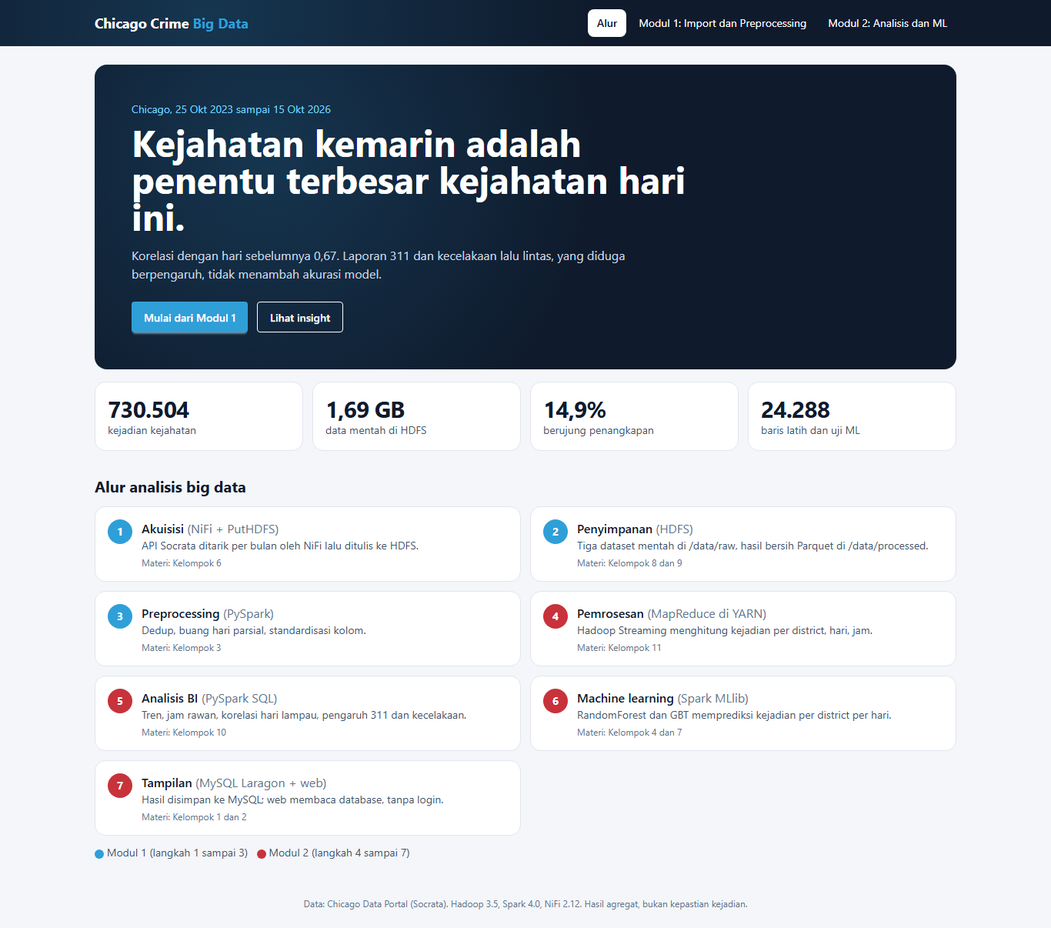
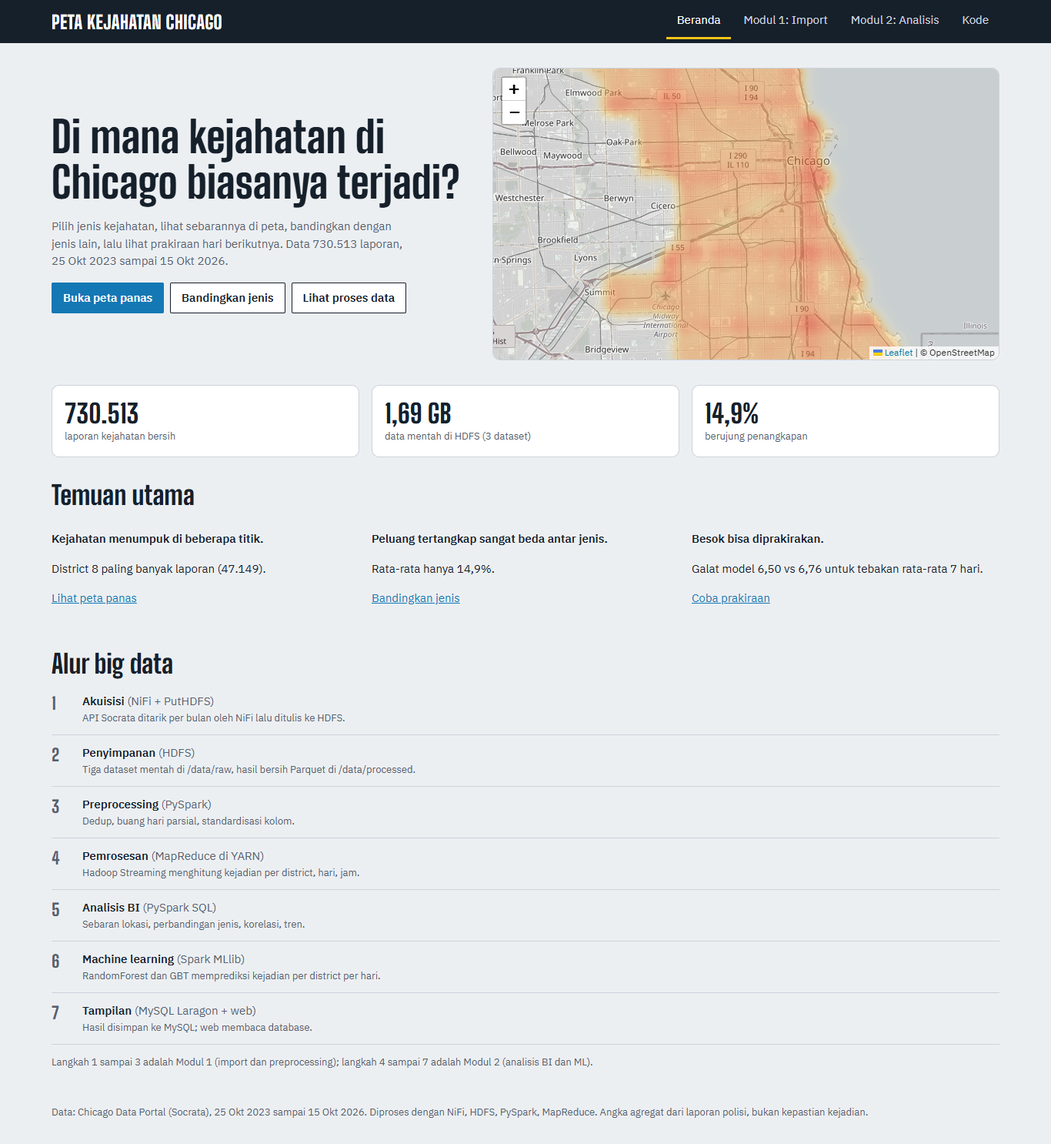
[tugas-akhir] UI v2: kesimpulan, peta panas interaktif, penjelajah ML

diff --git a/web/assets/leaflet-heat.js b/web/assets/leaflet-heat.js
@@ -1,0 +1,11 @@
+/*
+ (c) 2014, Vladimir Agafonkin
+ simpleheat, a tiny JavaScript library for drawing heatmaps with Canvas
+ https://github.com/mourner/simpleheat
+*/
+!function(){"use strict";function t(i){return this instanceof t?(this._canvas=i="string"==typeof i?document.getElementById(i):i,this._ctx=i.getContext("2d"),this._width=i.width,this._height=i.height,this._max=1,void this.clear()):new t(i)}t.prototype={defaultRadius:25,defaultGradient:{.4:"blue",.6:"cyan",.7:"lime",.8:"yellow",1:"red"},data:function(t,i){return this._data=t,this},max:function(t){return this._max=t,this},add:function(t){return this._data.push(t),this},clear:function(){return this._data=[],this},radius:function(t,i){i=i||15;var a=this._circle=document.createElement("canvas"),s=a.getContext("2d"),e=this._r=t+i;return a.width=a.height=2*e,s.shadowOffsetX=s.shadowOffsetY=200,s.shadowBlur=i,s.shadowColor="black",s.beginPath(),s.arc(e-200,e-200,t,0,2*Math.PI,!0),s.closePath(),s.fill(),this},gradient:function(t){var i=document.createElement("canvas"),a=i.getContext("2d"),s=a.createLinearGradient(0,0,0,256);i.width=1,i.height=256;for(var e in t)s.addColorStop(e,t[e]);return a.fillStyle=s,a.fillRect(0,0,1,256),this._grad=a.getImageData(0,0,1,256).data,this},draw:function(t){this._circle||this.radius(this.defaultRadius),this._grad||this.gradient(this.defaultGradient);var i=this._ctx;i.clearRect(0,0,this._width,this._height);for(var a,s=0,e=this._data.length;e>s;s++)a=this._data[s],i.globalAlpha=Math.max(a[2]/this._max,t||.05),i.drawImage(this._circle,a[0]-this._r,a[1]-this._r);var n=i.getImageData(0,0,this._width,this._height);return this._colorize(n.data,this._grad),i.putImageData(n,0,0),this},_colorize:function(t,i){for(var a,s=3,e=t.length;e>s;s+=4)a=4*t[s],a&&(t[s-3]=i[a],t[s-2]=i[a+1],t[s-1]=i[a+2])}},window.simpleheat=t}(),/*
+ (c) 2014, Vladimir Agafonkin
+ Leaflet.heat, a tiny and fast heatmap plugin for Leaflet.
+ https://github.com/Leaflet/Leaflet.heat
+*/
+L.HeatLayer=(L.Layer?L.Layer:L.Class).extend({initialize:function(t,i){this._latlngs=t,L.setOptions(this,i)},setLatLngs:function(t){return this._latlngs=t,this.redraw()},addLatLng:function(t){return this._latlngs.push(t),this.redraw()},setOptions:function(t){return L.setOptions(this,t),this._heat&&this._updateOptions(),this.redraw()},redraw:function(){return!this._heat||this._frame||this._map._animating||(this._frame=L.Util.requestAnimFrame(this._redraw,this)),this},onAdd:function(t){this._map=t,this._canvas||this._initCanvas(),t._panes.overlayPane.appendChild(this._canvas),t.on("moveend",this._reset,this),t.options.zoomAnimation&&L.Browser.any3d&&t.on("zoomanim",this._animateZoom,this),this._reset()},onRemove:function(t){t.getPanes().overlayPane.removeChild(this._canvas),t.off("moveend",this._reset,this),t.options.zoomAnimation&&t.off("zoomanim",this._animateZoom,this)},addTo:function(t){return t.addLayer(this),this},_initCanvas:function(){var t=this._canvas=L.DomUtil.create("canvas","leaflet-heatmap-layer leaflet-layer"),i=L.DomUtil.testProp(["transformOrigin","WebkitTransformOrigin","msTransformOrigin"]);t.style[i]="50% 50%";var a=this._map.getSize();t.width=a.x,t.height=a.y;var s=this._map.options.zoomAnimation&&L.Browser.any3d;L.DomUtil.addClass(t,"leaflet-zoom-"+(s?"animated":"hide")),this._heat=simpleheat(t),this._updateOptions()},_updateOptions:function(){this._heat.radius(this.options.radius||this._heat.defaultRadius,this.options.blur),this.options.gradient&&this._heat.gradient(this.options.gradient),this.options.max&&this._heat.max(this.options.max)},_reset:function(){var t=this._map.containerPointToLayerPoint([0,0]);L.DomUtil.setPosition(this._canvas,t);var i=this._map.getSize();this._heat._width!==i.x&&(this._canvas.width=this._heat._width=i.x),this._heat._height!==i.y&&(this._canvas.height=this._heat._height=i.y),this._redraw()},_redraw:function(){var t,i,a,s,e,n,h,o,r,d=[],_=this._heat._r,l=this._map.getSize(),m=new L.Bounds(L.point([-_,-_]),l.add([_,_])),c=void 0===this.options.max?1:this.options.max,u=void 0===this.options.maxZoom?this._map.getMaxZoom():this.options.maxZoom,f=1/Math.pow(2,Math.max(0,Math.min(u-this._map.getZoom(),12))),g=_/2,p=[],v=this._map._getMapPanePos(),w=v.x%g,y=v.y%g;for(t=0,i=this._latlngs.length;i>t;t++)if(a=this._map.latLngToContainerPoint(this._latlngs[t]),m.contains(a)){e=Math.floor((a.x-w)/g)+2,n=Math.floor((a.y-y)/g)+2;var x=void 0!==this._latlngs[t].alt?this._latlngs[t].alt:void 0!==this._latlngs[t][2]?+this._latlngs[t][2]:1;r=x*f,p[n]=p[n]||[],s=p[n][e],s?(s[0]=(s[0]*s[2]+a.x*r)/(s[2]+r),s[1]=(s[1]*s[2]+a.y*r)/(s[2]+r),s[2]+=r):p[n][e]=[a.x,a.y,r]}for(t=0,i=p.length;i>t;t++)if(p[t])for(h=0,o=p[t].length;o>h;h++)s=p[t][h],s&&d.push([Math.round(s[0]),Math.round(s[1]),Math.min(s[2],c)]);this._heat.data(d).draw(this.options.minOpacity),this._frame=null},_animateZoom:function(t){var i=this._map.getZoomScale(t.zoom),a=this._map._getCenterOffset(t.center)._multiplyBy(-i).subtract(this._map._getMapPanePos());L.DomUtil.setTransform?L.DomUtil.setTransform(this._canvas,a,i):this._canvas.style[L.DomUtil.TRANSFORM]=L.DomUtil.getTranslateString(a)+" scale("+i+")"}}),L.heatLayer=function(t,i){return new L.HeatLayer(t,i)};

diff --git a/web/assets/peta.js b/web/assets/peta.js
@@ -1,4 +1,4 @@
-// Peta panas sel (Leaflet). Sel digambar sendiri; ubin peta dasar opsional (hanya bila ada internet).
+// Peta Leaflet: peta dasar jalan (opsional, butuh internet), lapisan heatmap halus (leaflet.heat) atau kotak sel, layar penuh.
 const Peta = (() => {
   const CELL = 0.005, STOPS = ['#FFF3B0', '#FDBE4B', '#F26B38', '#C4262E', '#6E0F1A'];
   const hex = c => [1, 3, 5].map(i => parseInt(c.slice(i, i + 2), 16));
@@ -6,20 +6,36 @@ const Peta = (() => {
   const panas = t => { t = Math.max(0, Math.min(1, t)) * 4; const i = Math.min(3, Math.floor(t)); return 'rgb(' + mix(hex(STOPS[i]), hex(STOPS[i + 1]), t - i) + ')'; };
   // selisih: biru (B lebih padat) - abu - merah (A lebih padat)
   const selisih = d => { const A = [196, 38, 46], B = [20, 120, 181], N = [236, 239, 242], t = Math.min(1, Math.abs(d)); return 'rgb(' + mix(N, d >= 0 ? A : B, t) + ')'; };
-  function buat(el) {
-    const m = L.map(el, { zoomControl: true, preferCanvas: true, attributionControl: true }).setView([41.84, -87.68], 11);
-    m.layerSel = L.layerGroup().addTo(m);
+  function buat(el, opt = {}) {
+    const m = L.map(el, { zoomControl: true, preferCanvas: true, scrollWheelZoom: !opt.statis, minZoom: 9, maxZoom: 18, zoomSnap: .5 }).setView([41.84, -87.68], 11);
+    L.tileLayer('https://tile.openstreetmap.org/{z}/{x}/{y}.png', { attribution: '&copy; OpenStreetMap', maxZoom: 19, className: 'dasar' }).addTo(m);
+    m.layerSel = L.layerGroup().addTo(m); m.heat = null;
+    if (opt.fs) {
+      const C = L.Control.extend({ options: { position: 'topleft' }, onAdd() {
+        const b = L.DomUtil.create('a', 'leaflet-bar peta-fs'); b.href = '#'; b.title = 'Layar penuh'; b.setAttribute('role', 'button'); b.setAttribute('aria-label', 'Layar penuh'); b.textContent = '⛶';
+        const toggle = on => { m.getContainer().classList.toggle('fs', on); document.body.classList.toggle('fs-lock', on); setTimeout(() => m.invalidateSize(), 50); };
+        L.DomEvent.on(b, 'click', e => { L.DomEvent.preventDefault(e); toggle(!m.getContainer().classList.contains('fs')); });
+        document.addEventListener('keydown', e => { if (e.key === 'Escape') toggle(false); });
+        return b; } });
+      new C().addTo(m);
+    }
     return m;
   }
-  // cells: [{la,lo,n}], warna: fungsi(n)->css, tip: fungsi(sel)->teks
+  function bersih(m) { m.layerSel.clearLayers(); if (m.heat) { m.removeLayer(m.heat); m.heat = null; } }
+  // cells: [{la,lo,n}], warna: fungsi(sel)->css, tip: fungsi(sel)->teks
   function gambar(m, cells, warna, tip) {
-    m.layerSel.clearLayers();
+    bersih(m);
     for (const c of cells) {
       const r = L.rectangle([[c.la - CELL / 2, c.lo - CELL / 2], [c.la + CELL / 2, c.lo + CELL / 2]],
-        { stroke: false, fillColor: warna(c), fillOpacity: .78, interactive: !!tip });
+        { stroke: false, fillColor: warna(c), fillOpacity: .72, interactive: !!tip });
       if (tip) r.bindTooltip(tip(c), { sticky: true });
       r.addTo(m.layerSel);
     }
   }
-  return { CELL, panas, selisih, buat, gambar, STOPS };
+  // heatmap halus: pts [[la,lo,0..1]]
+  function halus(m, pts, radius = 16, blur = 20) {
+    bersih(m);
+    m.heat = L.heatLayer(pts, { radius, blur, max: .55, minOpacity: .3, gradient: { .15: STOPS[0], .4: STOPS[1], .6: STOPS[2], .8: STOPS[3], 1: STOPS[4] } }).addTo(m);
+  }
+  return { CELL, panas, selisih, buat, gambar, halus, STOPS };
 })();

diff --git a/web/assets/app.css b/web/assets/app.css
@@ -76,3 +76,32 @@ footer{padding:32px 0;color:var(--redam);font-size:13px}
 .alur li.ok{border-color:#2e7d46;background:#e7f3ea;color:var(--aspal)}
 .alur li.jalan{border-color:var(--danau);background:#e5f1fa;color:var(--aspal)}
 input[type=url],input[type=date]{border-radius:2px}
+/* ---- UI v2: kesimpulan, kontrol peta, penjelajah ML ---- */
+.kes{background:#fff;border:1px solid var(--garis);border-left:8px solid var(--peron);border-radius:10px;padding:14px 18px;margin:16px 0}
+.kes h2{font-size:22px;margin-bottom:6px}.kes ul{margin:6px 0 0;padding-left:20px}.kes li{margin:4px 0;max-width:80ch}
+.cara{margin:12px 0;border:1px solid var(--garis);border-radius:10px;background:#fff;padding:0 16px}
+.cara summary{cursor:pointer;font-weight:600;padding:10px 0}.cara p{margin:0 0 12px;max-width:75ch}
+.seg{display:inline-flex}.seg .btn{border-radius:0;margin-left:-1px}.seg .btn:first-child{border-radius:2px 0 0 2px;margin-left:0}.seg .btn:last-child{border-radius:0 2px 2px 0}
+.rng{display:flex;flex-direction:column;gap:2px;font-size:13px;color:var(--redam);min-width:130px}.rng input{width:100%;accent-color:var(--danau)}
+.hot{list-style:none;margin:0;padding:0}.hot li{border-bottom:1px solid var(--garis)}
+.hot button{all:unset;box-sizing:border-box;display:flex;gap:10px;align-items:center;width:100%;padding:8px 4px;cursor:pointer}
+.hot button:hover,.hot button:focus-visible{background:var(--kabut)}
+.hot b.n{font:800 20px var(--judul);width:22px;color:var(--bendera)}.hot .w{flex:1}.hot small{display:block;color:var(--redam)}
+#peta.fs,#mini.fs{position:fixed!important;inset:0;height:100vh!important;width:100vw!important;z-index:2000;border-radius:0}
+body.fs-lock{overflow:hidden}
+.peta-fs{width:30px;height:30px;line-height:30px;text-align:center;background:#fff;color:#16202B!important;font-size:18px;text-decoration:none;cursor:pointer}
+.leaflet-container{touch-action:none}
+.temuan{display:grid;gap:16px;grid-template-columns:repeat(auto-fit,minmax(230px,1fr));margin:16px 0}
+.temuan .panel{border-top:6px solid var(--bendera)}.temuan .panel:nth-child(2){border-color:var(--danau)}.temuan .panel:nth-child(3){border-color:var(--peron)}.temuan .panel:nth-child(4){border-color:#2e7d46}
+.temuan p{margin:6px 0 0}
+.meter{position:relative;height:34px;border-radius:2px;overflow:hidden;display:flex;margin:14px 0 4px}
+.meter i{display:block;height:100%}.meter .m1{background:#cfe8d6}.meter .m2{background:#ffe9a8}.meter .m3{background:#f6c0c3}
+.meter u{position:absolute;top:0;bottom:0;width:4px;background:var(--aspal);text-decoration:none}
+.mlab{display:flex;justify-content:space-between;font-size:12px;color:var(--redam)}
+.rk{cursor:pointer;text-align:left;font:inherit;border:0;border-left:6px solid}
+.rk:hover{filter:brightness(.97)}.rk:focus-visible{outline:2px solid var(--danau)}
+.tebak{display:grid;gap:12px}.tebak .hist{display:flex;gap:6px;flex-wrap:wrap}.tebak .hist span{border:1px solid var(--garis);border-radius:2px;padding:4px 8px;background:var(--kabut);font-size:13px}
+.win{color:#2e7d46;font-weight:600}.lose{color:var(--bendera);font-weight:600}
+tr.klik{cursor:pointer}tr.klik:hover{background:var(--kabut)}tr.sel{background:#fff4d6}
+
+.dasar{filter:grayscale(.85) contrast(.9) brightness(1.05)}

diff --git a/web/modul2.php b/web/modul2.php
@@ -19,23 +19,28 @@ const HARI=['Min','Sen','Sel','Rab','Kam','Jum','Sab'];</script>
 
 <?php if ($s === 1): $A = $_GET['jenis'] ?? 'SEMUA'; $A = $A === 'SEMUA' ? 'SEMUA' : $pilih($A, 'THEFT'); $B = $pilih($_GET['banding'] ?? '', ''); $mode = ($_GET['mode'] ?? '') === 'selisih' && $B ? 'selisih' : 'padat'; ?>
 <h1>Di mana kejahatan terjadi</h1>
-<p class="muted" style="max-width:70ch">Peta dibagi sel ±0,5 km. Warna sel menunjukkan jumlah laporan. Pilih satu jenis, lalu pilih jenis kedua untuk melihat di mana keduanya berbeda. <?= nf($meta['rows_mapped']) ?> dari <?= nf($meta['rows']) ?> kejadian punya koordinat; <?= nf($meta['rows_no_coord']) ?> tanpa koordinat tidak dipetakan.</p>
+<div class="kes" id="kes" aria-live="polite"><h2>Kesimpulan</h2><ul id="kesl"><li>Memuat...</li></ul></div>
+<details class="cara"><summary>Cara membaca peta ini</summary><p>Chicago dibagi menjadi sel sekitar 0,5 km. Makin merah dan gelap, makin banyak laporan di sel itu. Geser dan zoom dengan mouse atau jari, klik tombol layar penuh untuk memperbesar. <b>Halus</b> menggabungkan sel menjadi gradasi yang mulus, <b>Kotak</b> menampilkan tiap sel apa adanya (arahkan kursor untuk angkanya). Pilih jenis kedua lalu <b>Selisih</b> untuk melihat di mana dua jenis kejahatan berbeda pola. <?= nf($meta['rows_mapped']) ?> dari <?= nf($meta['rows']) ?> kejadian punya koordinat; <?= nf($meta['rows_no_coord']) ?> tanpa koordinat tidak dipetakan.</p></details>
 <div class="ctl">
  <label class="f">Jenis kejahatan<select id="A"><option value="SEMUA">Semua jenis</option><?php foreach ($J as $j): ?><option value="<?= h($j) ?>" <?= $j === $A ? 'selected' : '' ?>><?= nama($j) ?></option><?php endforeach ?></select></label>
  <label class="f">Bandingkan dengan<select id="B"><option value="">(tidak ada)</option><?php foreach ($J as $j): ?><option value="<?= h($j) ?>" <?= $j === $B ? 'selected' : '' ?>><?= nama($j) ?></option><?php endforeach ?></select></label>
  <div role="group" aria-label="Mode peta" style="display:flex"><button class="btn" id="mP" aria-pressed="<?= $mode === 'padat' ? 'true' : 'false' ?>">Kepadatan</button><button class="btn" id="mS" aria-pressed="<?= $mode === 'selisih' ? 'true' : 'false' ?>" <?= $B ? '' : 'disabled' ?>>Selisih A lawan B</button></div>
+ <div class="seg" role="group" aria-label="Gaya peta"><button class="btn" id="gH" aria-pressed="true">Halus</button><button class="btn" id="gK" aria-pressed="false">Kotak</button></div>
+ <label class="rng">Jari-jari sebaran<input type="range" id="rad" min="8" max="40" value="18"></label>
+ <label class="rng">Ambang tampil<input type="range" id="amb" min="0" max="60" value="0"></label>
  <button class="btn" id="reset">Reset</button>
 </div>
 <div class="grid side" style="margin-top:0">
  <div><div id="peta" role="img" aria-label="Peta panas kejadian kejahatan Chicago"></div><div class="legend" id="leg"></div></div>
  <div class="grid" style="margin-top:0;align-content:start">
   <section class="panel"><h3 id="jd">Ringkasan</h3><div class="kv" id="kv"></div><div id="ins"></div></section>
+  <section class="panel"><h3>Titik terpanas</h3><p class="small muted" style="margin:0 0 4px">Klik untuk terbang ke lokasinya.</p><ol class="hot" id="hot"></ol></section>
   <section class="panel"><h3>District teratas</h3><div class="scroll"><table class="t" id="td"></table></div></section>
  </div>
 </div>
 <script>
-const st={A:'<?= h($A) ?>',B:'<?= h($B) ?>',mode:'<?= $mode ?>'};
-const map=Peta.buat('peta');
+const st={A:'<?= h($A) ?>',B:'<?= h($B) ?>',mode:'<?= $mode ?>',gaya:'halus'};
+const map=Peta.buat('peta',{fs:true});
 const cache={};
 const ambil=async j=>cache[j]||(cache[j]=await (await fetch('api.php?a=grid&j='+encodeURIComponent(j))).json());
 async function ringkas(){
@@ -67,13 +72,36 @@ async function gambar(){
     b.forEach(c=>{const k=c.la+'|'+c.lo;const m=M[k]=M[k]||{la:c.la,lo:c.lo,a:0,b:0,na:0,nb:0};m.b=c.n/sb;m.nb=c.n});
     const L=Object.values(M),mx=L.reduce((x,c)=>Math.max(x,Math.abs(c.a-c.b)),0)||1;
     Peta.gambar(map,L,c=>Peta.selisih(Math.sign(c.a-c.b)*Math.sqrt(Math.abs(c.a-c.b)/mx)),c=>`${nm(st.A)}: ${nf(c.na)}<br>${nm(st.B)}: ${nf(c.nb)}`);
+    kes(a,b,sa,sb,L);
     leg.innerHTML=`<span>${nm(st.B)} lebih padat</span><i style="background:linear-gradient(90deg,#1478B5,#ECEFF2,#C4262E)"></i><span>${nm(st.A)} lebih padat</span>`;
   }else{
-    const v=a.map(c=>c.n).sort((x,y)=>x-y),p=v[Math.floor(v.length*.98)]||1;
-    Peta.gambar(map,a,c=>Peta.panas(Math.sqrt(c.n/p)),c=>`${nf(c.n)} laporan`);
+    const v=a.map(c=>c.n).sort((x,y)=>x-y),p=v[Math.floor(v.length*.98)]||1,amb=+document.getElementById('amb').value/100*p,aa=a.filter(c=>c.n>=amb);
+    if(st.gaya==='halus')Peta.halus(map,aa.map(c=>[c.la,c.lo,Math.min(1,Math.sqrt(c.n/p))]),+document.getElementById('rad').value,Math.round(+document.getElementById('rad').value*1.1));
+    else Peta.gambar(map,aa,c=>Peta.panas(Math.sqrt(c.n/p)),c=>`${nf(c.n)} laporan`);
     leg.innerHTML=`<span>sedikit</span><i style="background:linear-gradient(90deg,${Peta.STOPS.join(',')})"></i><span>${nf(p)}+ per sel</span>`;
+    kes(a,null,0,0,null);hotspot(a);
   }
   ringkas();
+}
+function hotspot(a){
+  const t=[...a].sort((x,y)=>y.n-x.n),tot=a.reduce((s,c)=>s+c.n,0),pk=[];
+  for(const c of t){if(pk.every(q=>Math.hypot(q.la-c.la,(q.lo-c.lo)*.75)>.02))pk.push(c);if(pk.length>=5)break}
+  document.getElementById('hot').innerHTML=pk.map((c,i)=>`<li><button data-la="${c.la}" data-lo="${c.lo}"><b class="n">${i+1}</b><span class="w">${nf(c.n)} laporan<small>${nf(c.n/tot*100,1)}% dari semua sel &middot; ${c.la.toFixed(3)}, ${c.lo.toFixed(3)}</small></span></button></li>`).join('');
+  document.querySelectorAll('#hot button').forEach(b=>b.onclick=()=>map.flyTo([+b.dataset.la,+b.dataset.lo],15,{duration:.8}));
+}
+function kes(a,b,sa,sb,L){
+  const el=document.getElementById('kesl'),tot=a.reduce((s,c)=>s+c.n,0),t=[...a].sort((x,y)=>y.n-x.n);
+  let k=[];
+  if(b){const dl=L.map(c=>[c,c.a-c.b]),ta=dl.sort((x,y)=>y[1]-x[1])[0],tb=dl[dl.length-1];
+    k.push(`<b>${nm(st.A)}</b> dan <b>${nm(st.B)}</b> tidak menumpuk di tempat yang sama. Merah = ${nm(st.A)} lebih dominan, biru = ${nm(st.B)} lebih dominan.`);
+    k.push(`Selisih terbesar: ${nm(st.A)} unggul di sekitar ${ta[0].la.toFixed(3)}, ${ta[0].lo.toFixed(3)}; ${nm(st.B)} unggul di sekitar ${tb[0].la.toFixed(3)}, ${tb[0].lo.toFixed(3)}.`);
+  }else{
+    const n10=Math.max(1,Math.ceil(a.length*.1)),s10=t.slice(0,n10).reduce((s,c)=>s+c.n,0);
+    k.push(`<b>${nm(st.A)}</b>: ${nf(tot)} laporan di ${nf(a.length)} sel peta.`);
+    k.push(`Terkonsentrasi: <b>10% sel teratas menampung ${nf(s10/tot*100,0)}%</b> dari seluruh laporan. Sisanya tersebar tipis.`);
+    k.push(`Titik terpanas ada di sekitar ${t[0].la.toFixed(3)}, ${t[0].lo.toFixed(3)} (${nf(t[0].n)} laporan dalam satu sel). Klik daftar "Titik terpanas" di kanan untuk melihatnya.`);
+  }
+  el.innerHTML=k.map(x=>`<li>${x}</li>`).join('');
 }
 const sync=()=>{document.getElementById('mP').setAttribute('aria-pressed',st.mode!=='selisih');document.getElementById('mS').setAttribute('aria-pressed',st.mode==='selisih');document.getElementById('mS').disabled=!st.B};
 document.getElementById('A').onchange=e=>{st.A=e.target.value;gambar()};
@@ -81,12 +109,21 @@ document.getElementById('B').onchange=e=>{st.B=e.target.value;if(!st.B)st.mode='
 document.getElementById('mP').onclick=()=>{st.mode='padat';sync();gambar()};
 document.getElementById('mS').onclick=()=>{st.mode='selisih';sync();gambar()};
 document.getElementById('reset').onclick=()=>{location.href='?s=1'};
+const gs=()=>{document.getElementById('gH').setAttribute('aria-pressed',st.gaya==='halus');document.getElementById('gK').setAttribute('aria-pressed',st.gaya==='kotak');document.getElementById('rad').disabled=st.gaya!=='halus'};
+document.getElementById('gH').onclick=()=>{st.gaya='halus';gs();gambar()};
+document.getElementById('gK').onclick=()=>{st.gaya='kotak';gs();gambar()};
+let tr;['rad','amb'].forEach(i=>document.getElementById(i).oninput=()=>{clearTimeout(tr);tr=setTimeout(gambar,120)});
 gambar();
 </script>
 
 <?php elseif ($s === 2): $sel = array_values(array_filter(array_map(fn($x) => in_array($x, $J, true) ? $x : null, explode(',', $_GET['j'] ?? 'THEFT,BATTERY,ROBBERY')))); $sel = array_slice(array_unique($sel), 0, 4) ?: ['THEFT']; ?>
 <h1>Apa dan kapan: bandingkan jenis</h1>
-<p class="muted" style="max-width:70ch">Pilih 1 sampai 4 jenis. Tren diindeks 100 pada bulan penuh pertama supaya jenis besar dan kecil bisa dibandingkan. Korelasi bukan sebab-akibat.</p>
+<div class="kes" aria-live="polite"><h2>Kesimpulan</h2><ul id="kesl"><li>Memuat...</li></ul></div>
+<details class="cara"><summary>Cara membaca halaman ini</summary><p>Pilih 1 sampai 4 jenis kejahatan, atau pakai pilihan cepat. <b>Tren</b> diindeks 100 pada bulan penuh pertama supaya jenis besar dan kecil bisa dibandingkan: garis di atas 100 berarti lebih banyak dari awal. <b>Peta jam</b> menunjukkan kapan jenis itu paling sering dilaporkan (baris = hari, kolom = jam; arahkan kursor untuk angkanya). <b>Korelasi</b> mengukur apakah dua jenis naik turun bersamaan di hari yang sama (1 = selalu bersamaan); korelasi bukan sebab-akibat.</p></details>
+<div class="ctl" style="margin-bottom:0"><span class="small muted">Pilihan cepat:</span>
+ <button class="btn" data-pre="THEFT,BATTERY,ROBBERY">Pencurian dan kekerasan</button>
+ <button class="btn" data-pre="NARCOTICS,CRIMINAL DAMAGE,DECEPTIVE PRACTICE">Narkotika, perusakan, penipuan</button>
+ <button class="btn" data-pre="BURGLARY,MOTOR VEHICLE THEFT,THEFT">Properti dan kendaraan</button></div>
 <fieldset class="ctl" style="border:0;padding:0" id="pil"><legend class="small muted">Jenis (maks. 4)</legend>
 <?php foreach ($J as $j): ?><label class="chip" style="--c:<?= $cor[$j] ?>"><input type="checkbox" value="<?= h($j) ?>" <?= in_array($j, $sel, true) ? 'checked' : '' ?>><span class="dot"></span><?= nama($j) ?></label><?php endforeach ?></fieldset>
 <div class="grid g2" style="margin-top:0">
@@ -99,6 +136,7 @@ gambar();
 let ch;
 const pilih=()=>[...document.querySelectorAll('#pil input:checked')].map(i=>i.value);
 const boxes=[...document.querySelectorAll('#pil input')];
+document.querySelectorAll('[data-pre]').forEach(x=>x.onclick=()=>{const w=x.dataset.pre.split(',');boxes.forEach(b=>b.checked=w.includes(b.value));muat()});
 boxes.forEach(b=>b.onchange=()=>{if(pilih().length>4)b.checked=false;if(!pilih().length)b.checked=true;muat()});
 async function muat(){
   const js=pilih();qs({j:js.join(',')});
@@ -113,15 +151,24 @@ async function muat(){
   document.getElementById('tp').innerHTML='<thead><tr><th>Jenis</th><th class="r">Laporan</th><th class="r">Penangkapan</th><th class="r">Domestik</th><th class="r">District teratas</th></tr></thead><tbody>'+P.map(p=>`<tr><td><span class="dot" style="--c:${WARNA[p.jenis]}"></span> ${nm(p.jenis)}</td><td class="r">${nf(p.n)}</td><td class="r">${nf(p.arrest_rate*100,1)}%</td><td class="r">${nf(p.domestic_pct*100,1)}%</td><td class="r">${p.top_district} (${nf(p.top_share*100,1)}%)</td></tr>`).join('')+'</tbody>';
   // heatmap jam x hari per jenis
   document.getElementById('hms').innerHTML=js.map(j=>`<section class="panel"><h3 style="color:${WARNA[j]}">${nm(j)}: jam dan hari</h3><div class="hm" id="h_${js.indexOf(j)}"></div></section>`).join('');
-  const puncak=[];
+  const puncak=[],kesA=[];
   js.forEach((j,i)=>{const g=Array.from({length:8},()=>Array(24).fill(0));d.jam.filter(r=>r.jenis===j).forEach(r=>g[r.dow][r.hr]=r.n);
     const tot=g.flat().reduce((a,b)=>a+b,0);let mx=0,pd=1,ph=0;for(let a=1;a<=7;a++)for(let b=0;b<24;b++)if(b!==0&&g[a][b]>mx){mx=g[a][b];pd=a;ph=b}
     const mj=Math.max(...g.flat().filter((_,k)=>k%24!==0));
     let h='<div></div>'+Array.from({length:24},(_,k)=>`<div style="text-align:center">${k%3?'':k}</div>`).join('');
     for(let a=1;a<=7;a++){h+=`<div>${HARI[a-1]}</div>`;for(let b=0;b<24;b++){const v=g[a][b];h+=`<div class="c" title="${HARI[a-1]} ${b}.00: ${nf(v)}" style="background:${Peta.panas(Math.sqrt(v/mj))}"></div>`}}
     document.getElementById('h_'+i).innerHTML=h;
+    const jm=Array(24).fill(0);for(let a=1;a<=7;a++)for(let b=1;b<24;b++)jm[b]+=g[a][b];const sore=[16,17,18,19,20,21].reduce((s,b)=>s+jm[b],0),all=jm.reduce((a,b)=>a+b,0)||1;
+    kesA.push({j,pd,ph,sore:sore/all});
     puncak.push(`<b>${nm(j)}</b> paling sering ${['','Minggu','Senin','Selasa','Rabu','Kamis','Jumat','Sabtu'][pd]} pukul ${ph}.00 (lonjakan 00.00 diabaikan: itu waktu bawaan data).`)});
   document.getElementById('ins').innerHTML=puncak.map(x=>`<p class="ins">${x}</p>`).join('');
+  // kesimpulan
+  const HR=['','Minggu','Senin','Selasa','Rabu','Kamis','Jumat','Sabtu'],kl=[];
+  const tr=js.map(j=>{const m={};d.bulan.filter(r=>r.jenis===j).forEach(r=>m[r.bulan]=r.n);return {j,v:(m[bl[bl.length-1]]||0)/(m[bl[0]]||1)*100}});
+  kesA.forEach(k=>{const p=P.find(x=>x.jenis===k.j),t=tr.find(x=>x.j===k.j).v;
+    kl.push(`<b>${nm(k.j)}</b>: puncak ${HR[k.pd]} pukul ${k.ph}.00; ${nf(k.sore*100,0)}% laporan terjadi jam 16-21; penangkapan ${nf(p.arrest_rate*100,1)}%; tren ${t>=105?'naik':t<=95?'turun':'datar'} (indeks ${nf(t,0)} dibanding awal).`)});
+  if(js.length>1){const ar=[...P].sort((a,b)=>b.arrest_rate-a.arrest_rate);kl.push(`Penangkapan tertinggi: <b>${nm(ar[0].jenis)}</b> (${nf(ar[0].arrest_rate*100,1)}%), terendah <b>${nm(ar[ar.length-1].jenis)}</b> (${nf(ar[ar.length-1].arrest_rate*100,1)}%).`)}
+  document.getElementById('kesl').innerHTML=kl.map(x=>`<li>${x}</li>`).join('');
   // korelasi
   const C=(a,b)=>(d.korelasi.find(r=>r.a===a&&r.b===b)||{}).corr;
   document.getElementById('tc').innerHTML='<thead><tr><th></th>'+js.map(j=>`<th class="r">${nm(j)}</th>`).join('')+'</tr></thead><tbody>'+js.map(a=>`<tr><td>${nm(a)}</td>`+js.map(b=>{const c=C(a,b);return `<td class="r" style="background:${Peta.panas(Math.max(0,c))};color:${c>.6?'#fff':'inherit'}">${nf(c,2)}</td>`}).join('')+'</tr>').join('')+'</tbody>';
@@ -143,16 +190,34 @@ $gain = ($base['rmse'] - $best['rmse']) / $base['rmse'] * 100;
 $lab = ['baseline_mean7' => 'Rata-rata 7 hari (pembanding)', 'rf_base' => 'RandomForest, kejahatan saja', 'rf_full' => 'RandomForest + 311 + kecelakaan', 'gbt_base' => 'GBT, kejahatan saja', 'gbt_full' => 'GBT + 311 + kecelakaan'];
 $tinggi = count(array_filter($risk, fn($r) => $r['risk'] === 'Tinggi')); ?>
 <h1>Besok: prakiraan per district</h1>
-<p class="muted" style="max-width:70ch">Model Spark MLlib memprediksi jumlah kejadian per district per hari. Latih <?= nf($kpi['train_rows']) ?> baris, uji <?= nf($kpi['test_rows']) ?> baris (12 bulan terakhir, dipisah menurut waktu).</p>
+<div class="kes"><h2>Kesimpulan</h2><ul>
+ <li>Model <b>RandomForest</b> memprakirakan jumlah kejadian per district per hari dengan kesalahan rata-rata sekitar <b><?= nf($best['mae'] ?? 0, 1) ?> kejadian</b>, lebih baik <b><?= nf($gain ?? 0, 1) ?>%</b> dari tebakan "sama dengan rata-rata 7 hari".</li>
+ <li>Yang paling menentukan adalah <b>kebiasaan district itu sendiri</b>: rata-rata 30 hari terakhir. Data 311 dan kecelakaan <b>tidak</b> membantu, jadi model sederhana justru terbaik.</li>
+ <li>Prakiraan besok dikelompokkan Rendah, Sedang, Tinggi dengan membandingkannya ke sejarah district itu sendiri, bukan ke district lain.</li></ul></div>
+<details class="cara"><summary>Cara membaca halaman ini</summary><p>Model dilatih dengan <?= nf($kpi['train_rows']) ?> baris dan diuji pada <?= nf($kpi['test_rows']) ?> baris (12 bulan terakhir, dipisah menurut waktu supaya tidak "mengintip" masa depan). <b>Klik kartu district</b> untuk detailnya: posisi prakiraan terhadap kisaran normal, riwayat prakiraan lawan kenyataan, dan jam rawan. <b>Tebak dulu</b> mengajak Anda menebak lalu membandingkan dengan model. Prakiraan bukan kepastian.</p></details>
 <div class="grid g3">
  <section class="panel"><div class="big" style="color:var(--bendera)"><?= nf($lag[0]['corr'], 2) ?></div><b>Kemarin menentukan hari ini</b><p class="small muted">Korelasi dengan 1 hari sebelumnya; 7 hari <?= nf($lag[6]['corr'], 2) ?>. Rata-rata 30 hari terakhir adalah fitur terpenting.</p></section>
  <section class="panel"><div class="big"><?= nf($gain, 1) ?>%</div><b>Lebih akurat dari tebakan rata-rata</b><p class="small muted">RMSE <?= nf($best['rmse'], 2) ?> lawan <?= nf($base['rmse'], 2) ?>. Menambah data 311 dan kecelakaan tidak membantu.</p></section>
  <section class="panel"><div class="big">District <?= $risk[0]['district'] ?></div><b>Prakiraan tertinggi pada <?= h($risk[0]['day']) ?></b><p class="small muted"><?= nf($risk[0]['pred'], 1) ?> kejadian, kategori <?= h($risk[0]['risk']) ?> (<?= $tinggi ?> district Tinggi). Kategori dibandingkan persentil 33 dan 66 sejarah district itu sendiri.</p></section>
 </div>
-<h2 style="margin-top:32px">Kartu risiko</h2>
-<div class="grid" style="grid-template-columns:repeat(auto-fill,minmax(130px,1fr));margin-top:12px"><?php foreach ($risk as $r): ?>
-<div class="rk rk-<?= h($r['risk']) ?>"><div class="small">District <?= $r['district'] ?></div><div class="big"><?= nf($r['pred'], 1) ?></div><div class="small"><b><?= h($r['risk']) ?></b></div></div><?php endforeach ?></div>
+<h2 style="margin-top:32px">Kartu risiko <span class="small muted">(klik untuk detail)</span></h2>
+<div class="ctl" style="margin:12px 0 0"><div class="seg" role="group" aria-label="Saring risiko"><button class="btn" data-f="" aria-pressed="true">Semua</button><button class="btn" data-f="Tinggi" aria-pressed="false">Tinggi</button><button class="btn" data-f="Sedang" aria-pressed="false">Sedang</button><button class="btn" data-f="Rendah" aria-pressed="false">Rendah</button></div>
+<label class="f">Urutkan<select id="urut"><option value="pred">Prakiraan tertinggi</option><option value="d">Nomor district</option></select></label></div>
+<div class="grid" id="kartu" style="grid-template-columns:repeat(auto-fill,minmax(130px,1fr));margin-top:12px"><?php foreach ($risk as $r): ?>
+<button class="rk rk-<?= h($r['risk']) ?>" data-d="<?= $r['district'] ?>" data-r="<?= h($r['risk']) ?>" data-p="<?= $r['pred'] ?>"><div class="small">District <?= $r['district'] ?></div><div class="big"><?= nf($r['pred'], 1) ?></div><div class="small"><b><?= h($r['risk']) ?></b></div></button><?php endforeach ?></div>
 <p class="small muted">Prakiraan berbasis pola agregat historis, bukan kepastian.</p>
+<section class="panel" id="det" style="margin-top:16px" hidden><h3 id="dj">District</h3>
+ <div class="grid g2" style="margin-top:8px">
+  <div><div class="mlab"><span>Rendah</span><span>Sedang</span><span>Tinggi</span></div><div class="meter" id="mt"></div><p id="dk" class="small"></p>
+   <h3 style="font-size:18px;margin-top:12px">Jam rawan (semua hari)</h3><div class="cv" style="height:170px"><canvas id="cJ"></canvas></div></div>
+  <div><h3 style="font-size:18px">Prakiraan lawan kenyataan (30 hari terakhir uji)</h3><div class="cv" style="height:260px"><canvas id="cS"></canvas></div></div>
+ </div></section>
+<section class="panel" style="margin-top:16px"><h3>Tebak dulu: Anda lawan model</h3>
+ <p class="small muted">Pilih district. Anda lihat 7 hari sebelumnya pada hari acak dari periode uji, tebak jumlah kejadian hari itu, lalu bandingkan dengan model dan rata-rata 7 hari.</p>
+ <div class="ctl" style="margin:8px 0"><label class="f">District<select id="gd"><?php foreach ($risk as $r): ?><option value="<?= $r['district'] ?>">District <?= $r['district'] ?></option><?php endforeach ?></select></label><button class="btn pri" id="gmulai">Soal baru</button></div>
+ <div class="tebak" id="soal" hidden><div><span class="small muted">7 hari sebelumnya:</span><div class="hist" id="gh"></div></div>
+  <div class="ctl" style="margin:0"><label class="f">Tebakan Anda (kejadian pada <span id="gtgl"></span>)<input type="number" id="gt" min="0" max="200" style="min-height:40px;padding:6px 10px;border:1px solid var(--aspal);border-radius:2px;width:140px"></label><button class="btn" id="gcek">Cek</button></div>
+  <div id="gsk" class="small" aria-live="polite"></div></div></section>
 <div class="grid g2">
  <section class="panel"><h3>Perbandingan model</h3><div class="scroll"><table class="t"><thead><tr><th>Model</th><th class="r">MAE</th><th class="r">RMSE</th><th class="r">R2</th></tr></thead><tbody>
  <?php foreach ($models as $i => $m): ?><tr style="<?= $i === 0 ? 'font-weight:600' : '' ?>"><td><?= $lab[$m['model']] ?? h($m['model']) ?></td><td class="r"><?= nf($m['mae'], 2) ?></td><td class="r"><?= nf($m['rmse'], 2) ?></td><td class="r"><?= nf($m['r2'], 3) ?></td></tr><?php endforeach ?></tbody></table></div></section>
@@ -172,6 +237,37 @@ mk('cL',{type:'bar',data:{labels:W.L.map(r=>r.lg),datasets:[{data:W.L.map(r=>r.c
 const F=Object.keys(W.E);mk('cE',{type:'bar',data:{labels:F,datasets:[{label:'lag 7',data:F.map(f=>W.E[f][7]),backgroundColor:'#00A1DE'},{label:'lag 30',data:F.map(f=>W.E[f][30]),backgroundColor:'#16202B'}]}});
 mk('cI',{type:'bar',data:{labels:W.I.map(r=>r.fitur),datasets:[{data:W.I.map(r=>r.nilai),backgroundColor:'#C4262E'}]},options:{indexAxis:'y',plugins:{legend:{display:false}}}});
 mk('cP',{type:'line',data:{labels:W.P.map(r=>r.day),datasets:[{label:'Aktual',data:W.P.map(r=>r.a),borderColor:'#7A8794',borderWidth:1.5,pointRadius:0},{label:'Prediksi',data:W.P.map(r=>r.p),borderColor:'#C4262E',borderWidth:2,pointRadius:0}]},options:{scales:{x:{ticks:{maxTicksLimit:8}}}}});
+// ---- penjelajah district ----
+let cJ,cS;
+document.querySelectorAll('[data-f]').forEach(b=>b.onclick=()=>{document.querySelectorAll('[data-f]').forEach(x=>x.setAttribute('aria-pressed',x===b));const f=b.dataset.f;document.querySelectorAll('#kartu .rk').forEach(k=>k.hidden=!!f&&k.dataset.r!==f)});
+document.getElementById('urut').onchange=e=>{const k=document.getElementById('kartu');[...k.children].sort((a,b)=>e.target.value==='d'?a.dataset.d-b.dataset.d:b.dataset.p-a.dataset.p).forEach(x=>k.appendChild(x))};
+document.querySelectorAll('#kartu .rk').forEach(k=>k.onclick=()=>buka(k.dataset.d));
+async function buka(d){
+  const r=await (await fetch('api.php?a=district&d='+d)).json(),n=r.next,pan=document.getElementById('det');pan.hidden=false;
+  document.getElementById('dj').textContent='District '+d+': prakiraan '+nf(n.pred,1)+' kejadian pada '+n.day;
+  const hi=Math.max(n.p66*1.4,n.pred*1.15),pc=v=>Math.min(100,v/hi*100);
+  document.getElementById('mt').innerHTML=`<i class="m1" style="width:${pc(n.p33)}%"></i><i class="m2" style="width:${pc(n.p66)-pc(n.p33)}%"></i><i class="m3" style="flex:1"></i><u style="left:calc(${pc(n.pred)}% - 2px)"></u>`;
+  const tot=r.total;
+  document.getElementById('dk').innerHTML=`Kisaran normal district ini: <b>${n.p33}</b> sampai <b>${n.p66}</b> kejadian per hari. Prakiraan <b>${nf(n.pred,1)}</b> berarti <b class="${n.risk==='Tinggi'?'lose':n.risk==='Rendah'?'win':''}">${n.risk}</b>. Sepanjang periode: ${nf(tot.n)} laporan, penangkapan ${nf(tot.arrest_rate*100,1)}%.`;
+  const jm=Array(24).fill(0);r.jam.forEach(x=>{if(x.hr>0)jm[x.hr]+=x.n});const mx=Math.max(...jm.slice(1));
+  if(cJ)cJ.destroy();cJ=new Chart(document.getElementById('cJ'),{type:'bar',data:{labels:jm.map((_,i)=>i),datasets:[{data:jm.map((v,i)=>i?v:null),backgroundColor:jm.map((v,i)=>i&&v===mx?'#C4262E':'#9fb3c4')}]},options:{maintainAspectRatio:false,plugins:{legend:{display:false}},scales:{x:{title:{display:true,text:'jam'}}}}});
+  const sr=r.seri.slice(-30);if(cS)cS.destroy();
+  cS=new Chart(document.getElementById('cS'),{type:'line',data:{labels:sr.map(x=>x.day.slice(5)),datasets:[{label:'Kenyataan',data:sr.map(x=>x.n),borderColor:'#16202B',borderWidth:2,pointRadius:2},{label:'Prakiraan model',data:sr.map(x=>x.p),borderColor:'#C4262E',borderWidth:2,pointRadius:0,borderDash:[5,3]}]},options:{maintainAspectRatio:false,plugins:{legend:{position:'bottom'}},scales:{x:{ticks:{maxTicksLimit:8}}}}});
+  pan.scrollIntoView({behavior:'smooth',block:'nearest'});
+}
+// ---- tebak dulu ----
+let soal=null;
+document.getElementById('gmulai').onclick=async()=>{
+  const d=document.getElementById('gd').value,r=await (await fetch('api.php?a=district&d='+d)).json(),s=r.seri,i=7+Math.floor(Math.random()*(s.length-7)),h=s.slice(i-7,i);
+  soal={a:s[i].n,m:s[i].p,b:h.reduce((x,y)=>x+y.n,0)/7,t:s[i].day};
+  document.getElementById('soal').hidden=false;document.getElementById('gtgl').textContent=soal.t;document.getElementById('gt').value='';document.getElementById('gsk').textContent='';
+  document.getElementById('gh').innerHTML=h.map(x=>`<span>${x.day.slice(5)}: <b>${x.n}</b></span>`).join('');
+};
+document.getElementById('gcek').onclick=()=>{
+  const gi=document.getElementById('gt');if(!soal||gi.value==='')return;const g=+gi.value;
+  const e=[['Anda',Math.abs(g-soal.a)],['Model',Math.abs(soal.m-soal.a)],['Rata-rata 7 hari',Math.abs(soal.b-soal.a)]],mn=Math.min(...e.map(x=>x[1]));
+  document.getElementById('gsk').innerHTML=`Kenyataan: <b>${soal.a}</b> kejadian. Tebakan Anda ${g} (selisih ${nf(e[0][1],1)}), model ${nf(soal.m,1)} (selisih ${nf(e[1][1],1)}), rata-rata 7 hari ${nf(soal.b,1)} (selisih ${nf(e[2][1],1)}). <b class="${e[0][1]===mn?'win':'lose'}">${e[0][1]===mn?'Anda terdekat!':'Terdekat: '+e.find(x=>x[1]===mn)[0]+'.'}</b>`;
+};
 const log=document.getElementById('log');let tm;
 const LV='http://localhost:8010/api'; // Laravel lapisan job (ADR 0008)
 async function poll(j){const r=await (await fetch(LV+'/jobs/'+j+'/log')).json();log.textContent=r.log||'(menunggu keluaran)';if(!r.done)tm=setTimeout(()=>poll(j),2500)}

diff --git a/web/index.php b/web/index.php
@@ -19,13 +19,22 @@ $steps = [
 <?php if ($k): ?><section class="grid g3" style="margin-top:0">
 <?php foreach ([[nf($k['total']), 'laporan kejahatan bersih'], [nf($k['total_raw_gb'], 2) . ' GB', 'data mentah di HDFS (3 dataset)'], [nf($k['arrest_rate'] * 100, 1) . '%', 'berujung penangkapan']] as [$a, $b]): ?>
 <div class="panel"><div class="big"><?= $a ?></div><div class="small muted"><?= $b ?></div></div><?php endforeach ?></section><?php endif ?>
+<?php if ($k):
+ $m = array_column(q('SELECT model,rmse FROM model_metrics'), 'rmse', 'model'); $rf = min($m); $bs = $m['baseline_mean7'] ?? $rf;
+ $dt = one('SELECT district,n FROM district ORDER BY n DESC LIMIT 1'); ?>
+<h2 style="margin-top:32px">Temuan utama</h2>
+<div class="grid g3" style="margin-top:12px">
+<div class="temuan"><b>Kejahatan menumpuk di beberapa titik.</b> District <?= (int)$dt['district'] ?> paling banyak laporan (<?= nf($dt['n']) ?>). <a href="modul2.php?s=1">Lihat peta panas</a></div>
+<div class="temuan"><b>Peluang tertangkap sangat beda antar jenis.</b> Rata-rata hanya <?= nf($k['arrest_rate'] * 100, 1) ?>%. <a href="modul2.php?s=2">Bandingkan jenis</a></div>
+<div class="temuan"><b>Besok bisa diprakirakan.</b> Galat model <?= nf($rf, 2) ?> vs <?= nf($bs, 2) ?> untuk tebakan rata-rata 7 hari. <a href="modul2.php?s=3">Coba prakiraan</a></div></div>
+<?php endif ?>
 <h2 style="margin-top:40px">Alur big data</h2>
 <ol style="list-style:none;padding:0;margin:8px 0 0"><?php foreach ($steps as $i => [$n, $t, $d]): ?>
 <li class="step"><b class="n"><?= $i + 1 ?></b><div><b><?= $n ?></b> <span class="muted">(<?= $t ?>)</span><div class="small muted"><?= $d ?></div></div></li><?php endforeach ?></ol>
 <p class="small muted">Langkah 1 sampai 3 adalah Modul 1 (import dan preprocessing); langkah 4 sampai 7 adalah Modul 2 (analisis BI dan ML).</p>
 <script>
-(async()=>{const m=Peta.buat('mini');m.dragging.disable();m.scrollWheelZoom.disable();
+(async()=>{const m=Peta.buat('mini',{statis:true});m.dragging.disable();
 const a=await (await fetch('api.php?a=grid&j=SEMUA')).json(),v=a.map(c=>c.n).sort((x,y)=>x-y),p=v[Math.floor(v.length*.98)]||1;
-Peta.gambar(m,a,c=>Peta.panas(Math.sqrt(c.n/p)),null)})();
+Peta.halus(m,a.map(c=>[c.la,c.lo,Math.min(1,Math.sqrt(c.n/p))]),12,16)})();
 </script>
 <?php foot();

diff --git a/web/layout.php b/web/layout.php
@@ -12,7 +12,7 @@ function head(string $title, string $active) { ?>
 <!doctype html><html lang="id"><head><meta charset="utf-8"><meta name="viewport" content="width=device-width,initial-scale=1">
 <title><?= h($title) ?> | Peta Kejahatan Chicago</title>
 <link rel="stylesheet" href="assets/leaflet.css"><link rel="stylesheet" href="assets/app.css">
-<script src="assets/chart.js"></script><script src="assets/leaflet.js"></script><script src="assets/peta.js"></script></head><body>
+<script src="assets/chart.js"></script><script src="assets/leaflet.js"></script><script src="assets/leaflet-heat.js"></script><script src="assets/peta.js"></script></head><body>
 <header class="bar"><div class="wrap"><a href="index.php" class="logo">PETA KEJAHATAN CHICAGO</a>
 <nav aria-label="Utama"><?php foreach (['index.php' => 'Beranda', 'modul1.php' => 'Modul 1: Import', 'modul2.php' => 'Modul 2: Analisis', 'kode.php' => 'Kode'] as $u => $t): ?>
 <a href="<?= $u ?>" <?= $active === $u ? 'aria-current="page"' : '' ?>><?= $t ?></a><?php endforeach ?></nav></div></header>

diff --git a/web/api.php b/web/api.php
@@ -18,4 +18,13 @@ if ($a === 'cmp' && $js) {
         'korelasi' => q("SELECT a,b,corr FROM a_type_corr WHERE a IN ($in) AND b IN ($in)", array_merge($js, $js)),
     ]);
 }
+if ($a === 'district') {   // detail satu district untuk penjelajah ML
+    $d = (int)($_GET['d'] ?? 0);
+    json_out([
+        'next'  => one('SELECT * FROM next_day WHERE district=?', [$d]),
+        'seri'  => q('SELECT day,n,prediction p FROM test_pred WHERE district=? ORDER BY day', [$d]),
+        'jam'   => q('SELECT dow,hr,n FROM mr_dhh WHERE district=?', [$d]),
+        'total' => one('SELECT n,arrest_rate FROM district WHERE district=?', [$d]),
+    ]);
+}
 json_out(['error' => 'a=grid|cmp']);

diff --git a/README.md b/README.md
@@ -134,7 +134,7 @@ https://data.cityofchicago.org/resource/ijzp-q8t2.csv?$where=date between '2026-
 |---|---|
 | Beranda | Ringkasan data, KPI, status |
 | **Modul 1: Import** | Tempel link Socrata, kirim ke NiFi, lihat ukuran di HDFS, jalankan pipeline dengan stepper 8 tahap |
-| **Modul 2: Analisis** | **Di mana**: peta panas per jenis, mode Selisih antar jenis. **Apa dan kapan**: jenis x bulan/jam/district, korelasi antar jenis. **Besok**: prakiraan risiko per district dan kartu peringatan |
+| **Modul 2: Analisis** | Tiap tahap diawali **Kesimpulan** dan cara membaca. **Di mana**: peta panas halus yang bisa di-zoom, layar penuh, slider radius dan ambang, daftar titik terpanas, mode Selisih. **Apa dan kapan**: jenis x bulan/jam/district, pilihan cepat, korelasi. **Besok**: kartu risiko yang bisa disaring dan diklik (detail district, meter risiko, prakiraan vs kenyataan) serta permainan Tebak dulu |
 | **Kode** | Seluruh skrip PySpark, MapReduce, dan shell beserta lokasinya dan penjelasan sintaks |
 
 ## Hasil utama
